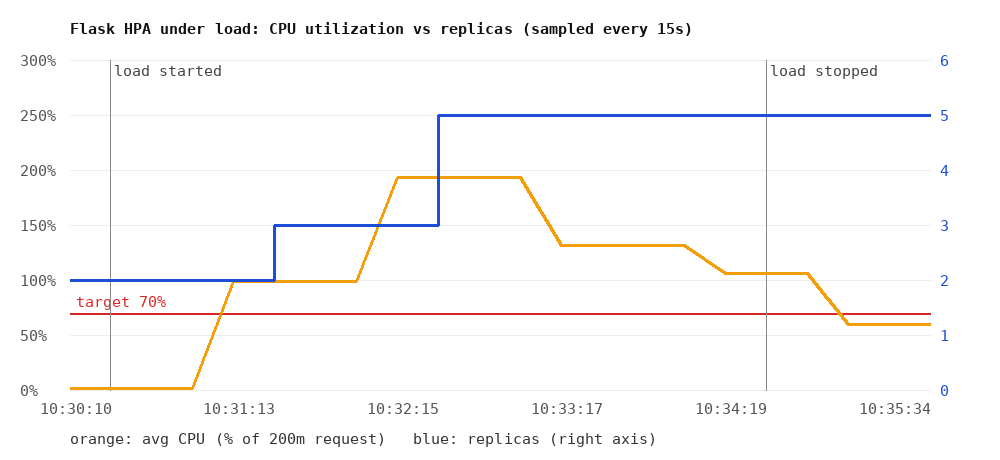
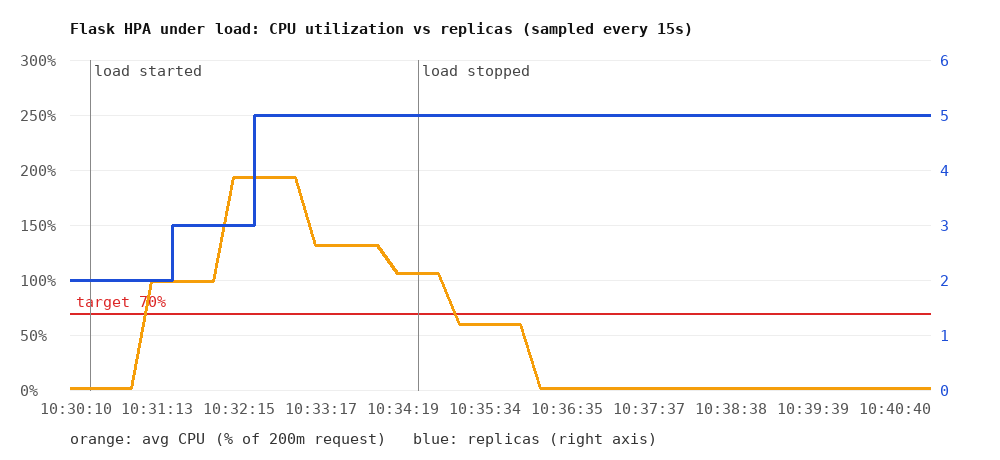
Add HPA scale-down results

diff --git a/README.md b/README.md
@@ -198,7 +198,7 @@ You can also load test from your machine with `hey -z 2m -c 50 $URL/`.
 
 #### Autoscaling results
 
-**Test setup.** Minikube v1.39.0 with the Docker driver, 2 CPUs and 3 GB RAM, with metrics-server enabled. Four `busybox` pods ran `wget` against `http://flask-service/` in a tight loop for about 4.5 minutes. HPA state was sampled every 15 seconds. The raw output is in [`docs/raw/`](docs/raw/).
+**Test setup.** Minikube v1.39.0 with the Docker driver, 2 CPUs and 3 GB RAM, with metrics-server enabled. Four `busybox` pods ran `wget` against `http://flask-service/` in a tight loop for about 4.5 minutes, then were deleted while sampling continued for scale-down. HPA state was sampled every 15 seconds. The raw output is in [`docs/raw/`](docs/raw/).
 
 | Time | Event | Avg CPU (of 200m request) | Replicas |
 |---|---|---|---|
@@ -210,13 +210,15 @@ You can also load test from your machine with `hey -z 2m -c 50 $URL/`.
 | 10:34:19 | Steady at the maximum | 106% | 5 |
 | 10:34:33 | Load generators deleted | | |
 | 10:35:19 | CPU back under target | 60% | 5 (scale-down cooldown) |
+| 10:36:20 | Back to idle | 1% | 5 (still in cooldown) |
+| 10:41:10 | Stabilization window over | 1% | 5 → 2 |
 
 **Observations.**
 - The HPA reacted within about 60 seconds of load starting. That delay is the metrics-server scrape interval plus the HPA's 15-second sync period.
 - It scaled 2 → 3, then 3 → 5 a minute later. That second step jumped two replicas at once, because CPU was at 193%, far above the target. It stopped at 5 because that is `maxReplicas`.
 - With 5 replicas, each Flask pod settled at about 210m CPU, close to its 200m request and under its 500m limit. Average utilization stayed above 70% at about 106%. The test was bounded by `maxReplicas` and by the node's 2 CPUs: the 4 load generators alone used about 1.4 CPU.
 - MongoDB stayed at about 10m CPU. The `/` endpoint does not touch the database, so this test isolates Flask's CPU.
-- After the load stopped, CPU fell below 70% within about 45 seconds. Replicas stay at 5 for the default 5-minute scale-down stabilization window before returning to 2. This prevents flapping when traffic is bursty.
+- After the load stopped, CPU fell below 70% within about 45 seconds. Replicas stayed at 5 for the default 5-minute scale-down stabilization window, then dropped to 2 in one step at 10:41 ("All metrics below target"). The window prevents flapping when traffic is bursty.
 
 ![HPA timeline: CPU vs replicas](docs/screenshots/hpa-timeline.png)
 
@@ -231,6 +233,10 @@ You can also load test from your machine with `hey -z 2m -c 50 $URL/`.
 **HPA events: the SuccessfulRescale entries show 2 → 3 → 5**
 
 ![HPA describe](docs/screenshots/3-hpa-describe.png)
+
+**After the load stopped: scaled back to the 2-replica minimum**
+
+![After scale-down](docs/screenshots/4-after-scale-down.png)
 
 ### Issues encountered during testing
 - **HPA showed `<unknown>/70%` for the first ~2 minutes.** The `FailedGetResourceMetric` warnings in the describe output above come from this. metrics-server had just been enabled and had not served its first scrape yet. It resolved on its own. If it doesn't, check `kubectl get apiservice v1beta1.metrics.k8s.io` and confirm the pods have CPU requests; without them, utilization cannot be computed.
